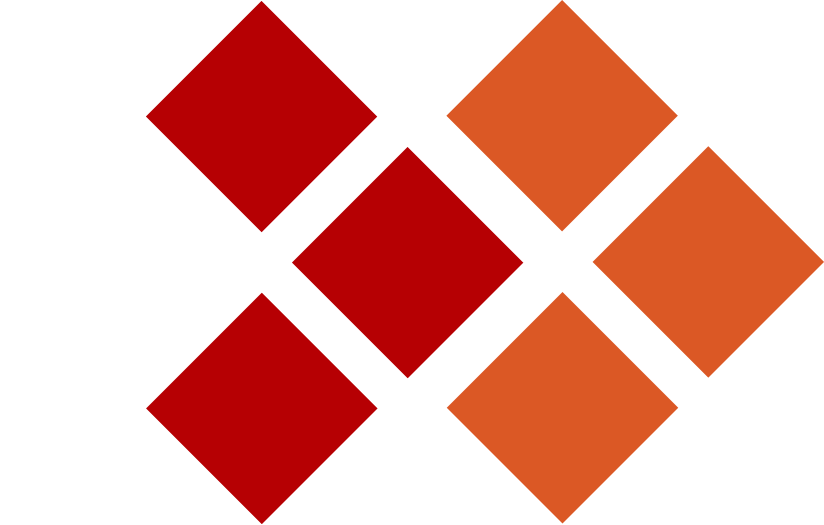
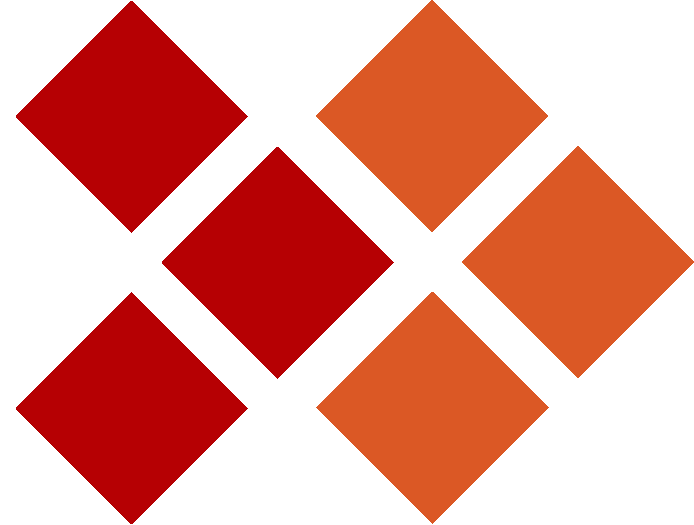
ロゴの黒背景を透過にして、サイドバーとログインの地色に乗せる。

diff --git a/src/client/components/Brand.tsx b/src/client/components/Brand.tsx
@@ -1,18 +1,18 @@
 import mark from "../assets/arcana-mark.png";
 import lockup from "../assets/arcana-logo.png";
 
-export function BrandMark({ className = "h-8 w-8 rounded-lg" }: { className?: string }) {
-  return <img src={mark} alt="Arcana" className={`bg-black object-cover ${className}`} />;
+export function BrandMark({ className = "h-8 w-8" }: { className?: string }) {
+  return <img src={mark} alt="Arcana" className={`object-contain ${className}`} />;
 }
 
-export function BrandLockup({ className = "h-10 w-auto rounded-lg" }: { className?: string }) {
-  return <img src={lockup} alt="Arcana WorkSquare" className={`bg-black object-contain ${className}`} />;
+export function BrandLockup({ className = "h-10 w-auto" }: { className?: string }) {
+  return <img src={lockup} alt="Arcana WorkSquare" className={`object-contain ${className}`} />;
 }
 
 export function Brand({ compact = false, className }: { compact?: boolean; className?: string }) {
   return compact ? (
-    <BrandMark className={className ?? "h-8 w-8 rounded-lg"} />
+    <BrandMark className={className ?? "h-8 w-8"} />
   ) : (
-    <BrandLockup className={className ?? "h-11 w-auto rounded-lg"} />
+    <BrandLockup className={className ?? "h-11 w-auto"} />
   );
 }

diff --git a/src/client/pages/WorkspaceApp.tsx b/src/client/pages/WorkspaceApp.tsx
@@ -94,7 +94,7 @@ export function WorkspaceApp() {
     return (
       <div className="flex h-full items-center justify-center bg-canvas">
         <div className="flex flex-col items-center gap-3">
-          <BrandMark className="h-10 w-10 rounded-xl" />
+          <BrandMark className="h-10 w-10" />
           <div className="skeleton h-2 w-16" />
         </div>
       </div>
@@ -110,15 +110,11 @@ export function WorkspaceApp() {
       >
         {collapsed ? (
           <button className="mb-2 flex justify-center" onClick={() => nav("/")} title="Arcana WorkSquare">
-            <BrandMark className="h-8 w-8 rounded-[8px]" />
+            <BrandMark className="h-8 w-8" />
           </button>
         ) : (
-          <button
-            className="mb-2 overflow-hidden rounded-[8px] bg-black px-2 py-1.5"
-            onClick={() => nav("/")}
-            title="Arcana WorkSquare"
-          >
-            <BrandLockup className="h-9 w-full object-contain" />
+          <button className="mb-2 px-1 py-1" onClick={() => nav("/")} title="Arcana WorkSquare">
+            <BrandLockup className="h-9 w-full" />
           </button>
         )}
         {!collapsed && (

diff --git a/src/client/pages/SharePage.tsx b/src/client/pages/SharePage.tsx
@@ -24,7 +24,7 @@ export function SharePage() {
   if (error) {
     return (
       <div className="flex h-full flex-col items-center justify-center gap-3 bg-canvas px-6 text-center">
-        <BrandLockup className="h-12 w-auto rounded-xl" />
+        <BrandLockup className="h-12 w-auto" />
         <p className="text-[14px] text-danger">{error}</p>
       </div>
     );
@@ -32,7 +32,7 @@ export function SharePage() {
   if (!page || !token) {
     return (
       <div className="flex h-full items-center justify-center bg-canvas">
-        <BrandMark className="h-10 w-10 rounded-xl" />
+        <BrandMark className="h-10 w-10" />
       </div>
     );
   }

diff --git a/src/client/pages/AuthScreens.tsx b/src/client/pages/AuthScreens.tsx
@@ -39,7 +39,7 @@ function AuthLayout({
     <div className="flex min-h-full items-center justify-center bg-canvas px-6 py-16">
       <div className="w-full max-w-[400px]">
         <div className="mb-8 flex justify-center">
-          <BrandLockup className="h-[52px] w-auto max-w-full rounded-[12px] shadow-[0_8px_24px_rgba(0,0,0,0.18)]" />
+          <BrandLockup className="h-[52px] w-auto max-w-full" />
         </div>
         <div className="rounded-[14px] border border-line bg-white px-6 py-7 shadow-[0_10px_40px_rgba(15,15,15,0.04)]">
           <h1 className="text-center text-[20px] font-semibold tracking-tight">{title}</h1>
